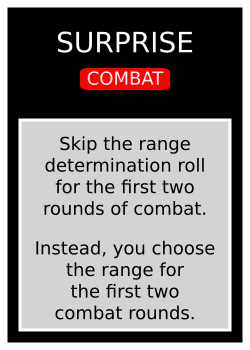
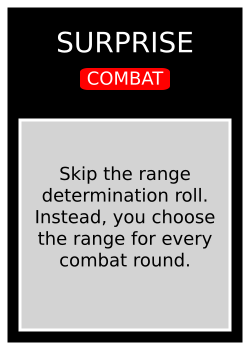
Update and simplify text for Surprise.

Changed region(s): [[0.14, 0.3714, 0.868, 0.9143]]

diff --git a/cards.tex b/cards.tex
@@ -15,9 +15,11 @@ The cards in your hand are secret and should be kept hidden from your opponent u
 
 \subsection{Drawing More Cards}
 
-During each player's maintenance and production phase the active player draws a number of cards that brings them back up to their minimum hand size (if below the minimum). After drawing up to your minimum hand size the active player may discard cards for 3 RU each. Cards discarded in this fashion are not replaced until the following turn.
+During each player's maintenance and production phase the active player draws a number of cards that brings them back up to their minimum hand size (if below the minimum).
 
-You may also buy additional cards at a cost of 7 RU per card. You may not discard a card that you purchased for RU in the same turn that you purchased it.
+After drawing up to their minimum hand size the active player may discard cards for 1 RU each. Cards discarded in this fashion are not replaced until the following turn.
+
+The active player may also buy additional cards at a cost of 7 RU per card. You may not discard a card that you purchased for RU in the same turn that you purchased it. You must pay to discard any cards that you wish discarded before purchasing more.
 
 \subsection{Playing the Cards}
 
@@ -221,9 +223,9 @@ All of your disrupted ships are no longer disrupted.
 
 \textbfit{When: Combat, Range Determination)} (2)
 
-Skip the range determination roll. Instead, you choose the range for the current combat round.
+Skip the range determination roll. Instead, you choose the range for every combat round.
 
-This may even affect the first combat round.
+\textit{Clarification: This may even affect the first combat round.}
 
 \subsubsection{Tactics} (2)
 
